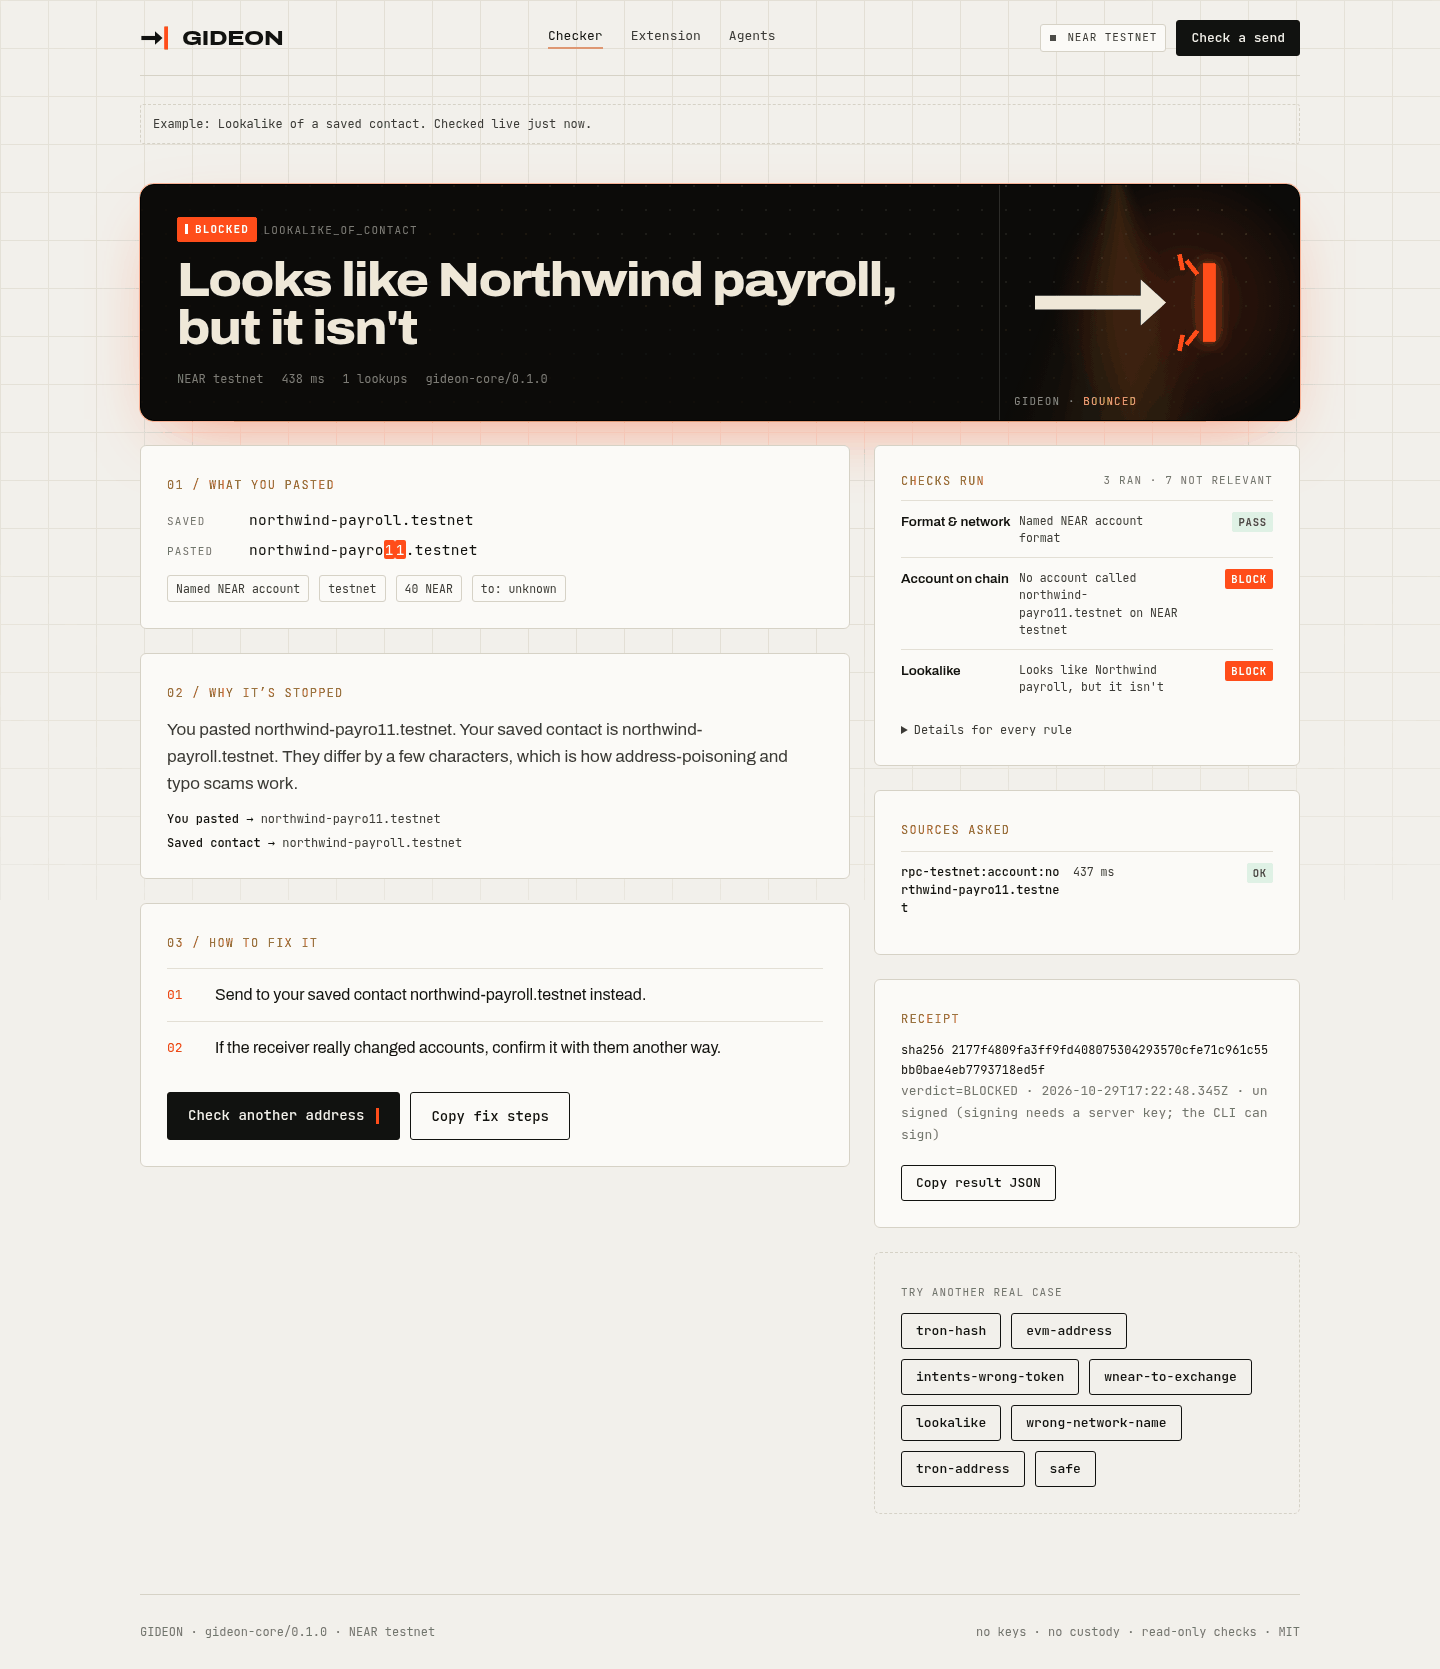
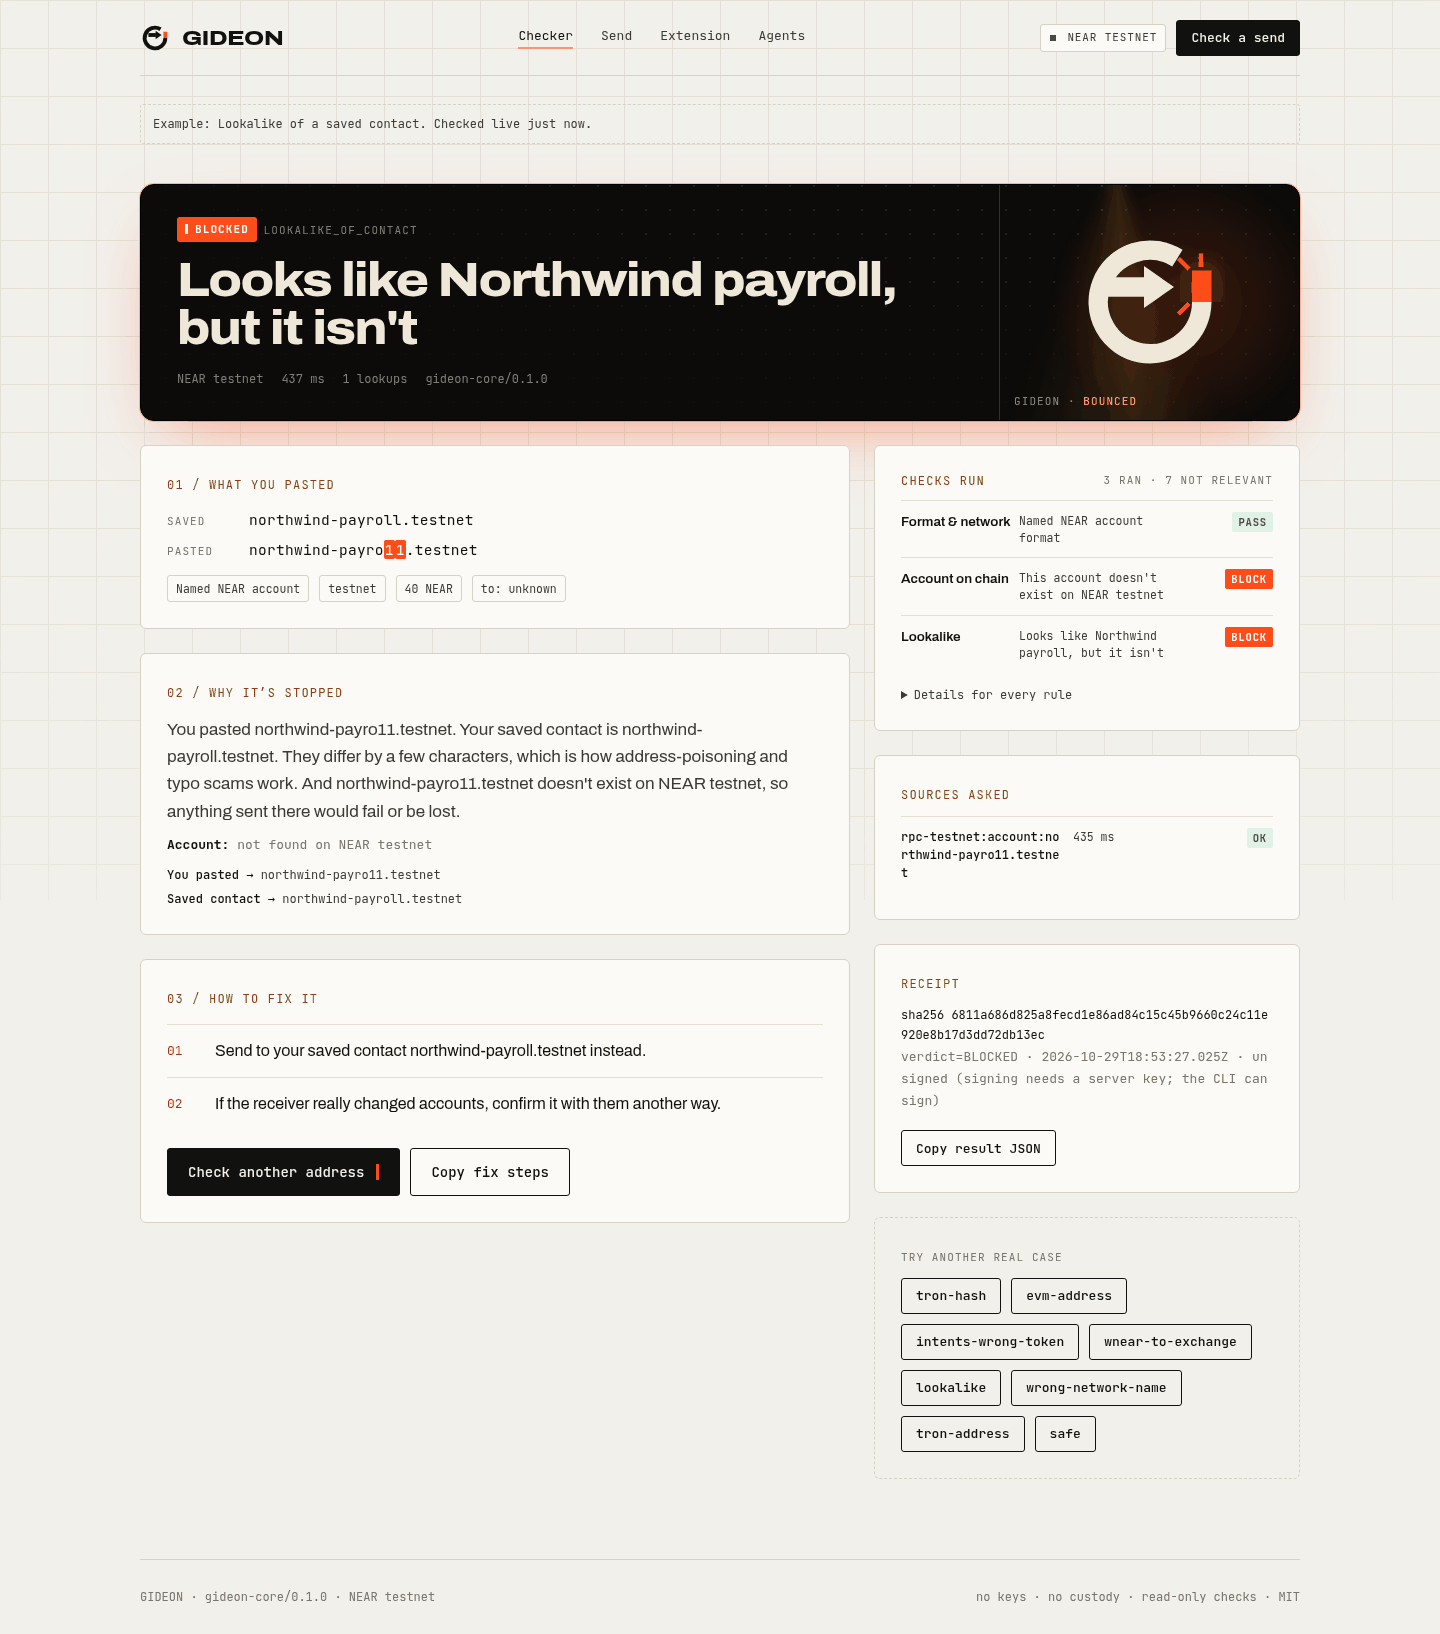
README and screenshots: account facts, nonexistent-account block, new brand
Re-took home, agents, check (incl. a nonexistent account) and the
extension popup blocking adelekejrx.testnet; adds lockup images.

diff --git a/README.md b/README.md
@@ -1,3 +1,5 @@
+<p><img src="apps/web/public/brand/gideon-lockup-light.svg" alt="Gideon" width="320"></p>
+
 # Gideon
 
 **A pre-send safety check for NEAR.** Paste the address, token and
@@ -15,15 +17,19 @@ Work began 29 Oct 2026.
 
 | Mistake | Example | Verdict |
 | --- | --- | --- |
+| An account that doesn't exist | `adelekejrx.testnet` (typo), or a name that only exists on the other network | BLOCKED |
 | A transaction hash pasted as an account | a Tron tx hash looks like a 64-hex NEAR implicit account, and wallets accept it | BLOCKED |
 | Wrong network | a `.near` name while sending on testnet, or a Tron `T…` address | BLOCKED |
 | Wrong token for an Intents deposit | sending wNEAR to a 1Click deposit address that expects USDC | BLOCKED |
 | Lookalike of a saved contact | `northwind-payro11.testnet` instead of `northwind-payroll.testnet` | BLOCKED |
 | A token the exchange may not credit | wNEAR or USDC (NEP-141) sent to an exchange deposit | ATTENTION |
 | A fresh Ethereum-style `0x` account | it exists only once someone uses it with an Ethereum key | ATTENTION |
+| A 64-hex implicit account never used | valid, but unfunded: sending creates it, only fine if its owner gave it to you | ATTENTION |
 | A lookup that failed | any source is down or rate-limited | ATTENTION ("couldn't check") |
 
 All the examples above are real cases in [`demo/cases.json`](demo/cases.json).
+
+![Gideon blocks a typo: adelekejrx.testnet doesn't exist on NEAR testnet](shots/desktop-check-blocked-nonexistent.png)
 
 ## Quickstart
 
@@ -89,7 +95,7 @@ browser, straight against the public APIs) and your own code
 | --- | --- | --- |
 | R1 Format & network | Is it a valid NEAR account, and for the network you chose? Catches `.near` on testnet, Tron and Bitcoin addresses. | local |
 | R2 Pasted hash | Is this 64-hex string really a Tron, Ethereum, Bitcoin or NEAR transaction hash? | TronGrid, Ethereum RPC, mempool.space, NEAR RPC |
-| R3 Account on chain | Does the account exist? Is it new, or a contract? | NEAR RPC |
+| R3 Account on chain | Does the account exist on the network you chose? A name that doesn't exist is BLOCKED, with close matches from your contacts and history. Shows when it was created and what it holds. | NEAR RPC `view_account`, NearBlocks (creation date, info only) |
 | R4 Ethereum-style account | A `0x` + 40 hex address used on NEAR: in use, or never used? | NEAR RPC |
 | R5 Token | Is the token real, not a lookalike, and is the receiver registered with it? | NEAR RPC, token list |
 | R6 Intents deposit | For a 1Click deposit address: does the token match what it expects, is it still open? | 1Click `/v0/status` (mainnet) |
@@ -102,9 +108,15 @@ How a verdict is reached:
 
 - Any rule that says **BLOCKED** makes the verdict BLOCKED.
 - Otherwise, any **ATTENTION**, or any lookup that failed, makes it ATTENTION.
-- **SAFE** only when every rule that applies passed on live data.
+- **SAFE** only when every rule that applies passed on live data **and** a
+  live `view_account` lookup on the selected network found the account. The
+  engine enforces this last: a result with no confirmed account can't be SAFE.
 - A failed lookup is reported as **"couldn't check"** with the error. It is
   never treated as safe.
+
+Every result also carries the account facts it was based on, for example
+`Account exists on NEAR testnet. Created 30 Apr 2022. Holds 180.6479 NEAR.`
+The website, Send page, extension, CLI and MCP server all show them.
 
 Every result carries a receipt: a sha256 over the exact input, findings and
 verdict. With `GIDEON_RECEIPT_KEY` set, it's also ed25519-signed and
@@ -382,6 +394,20 @@ variables) to turn one on.
 | Paid or private NEAR RPC | `GIDEON_RPC_URL_MAINNET`, `GIDEON_RPC_URL_TESTNET`, `GIDEON_RPC_API_KEY` | used instead of the free FastNEAR endpoints |
 | NEAR AI explainer | `NEARAI_API_KEY`, `NEARAI_MODEL` (default `z-ai/glm-5.2`) | rewrites the reason in plainer words through NEAR AI Cloud. It only rephrases: it can never change the verdict, and if it fails the built-in text is used. |
 | Signed receipts | `GIDEON_RECEIPT_KEY` (make one with `npm run gideon -- keygen`) | receipts are ed25519-signed as well as hashed |
+
+## Brand
+
+The mark is the **Arrow G**: the G's crossbar is the send arrow, and its
+vermilion spur is the wall. In the site and extension it moves. When a send is
+BLOCKED, the arrow hits the wall and bounces back. When it's SAFE, the wall
+slides down into the G and the arrow leaves through the opening. The wordmark
+is Archivo 800 at 125% width. The lockup SVGs are in
+[`apps/web/public/brand/`](apps/web/public/brand/), and the favicon is
+[`apps/web/public/favicon.svg`](apps/web/public/favicon.svg).
+
+| Light | Dark |
+| --- | --- |
+| ![Gideon lockup, light](shots/brand-lockup-light.png) | ![Gideon lockup, dark](shots/brand-lockup-dark.png) |
 
 ## Repo layout
 
